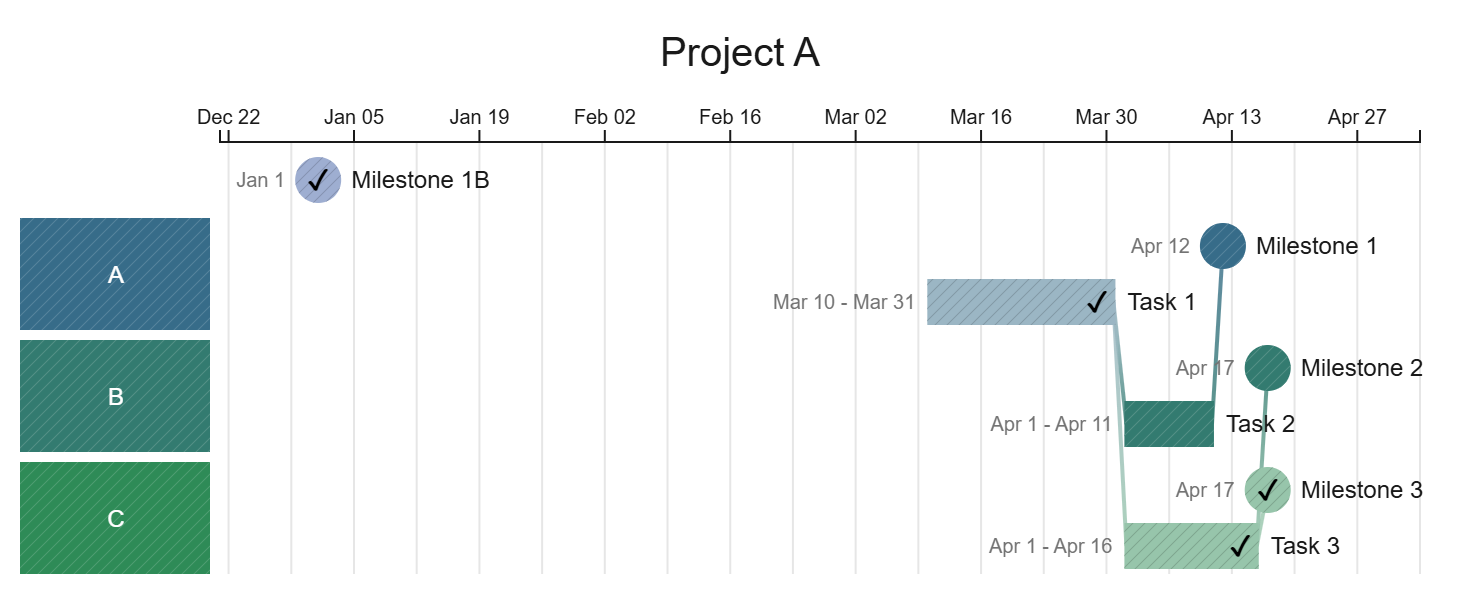
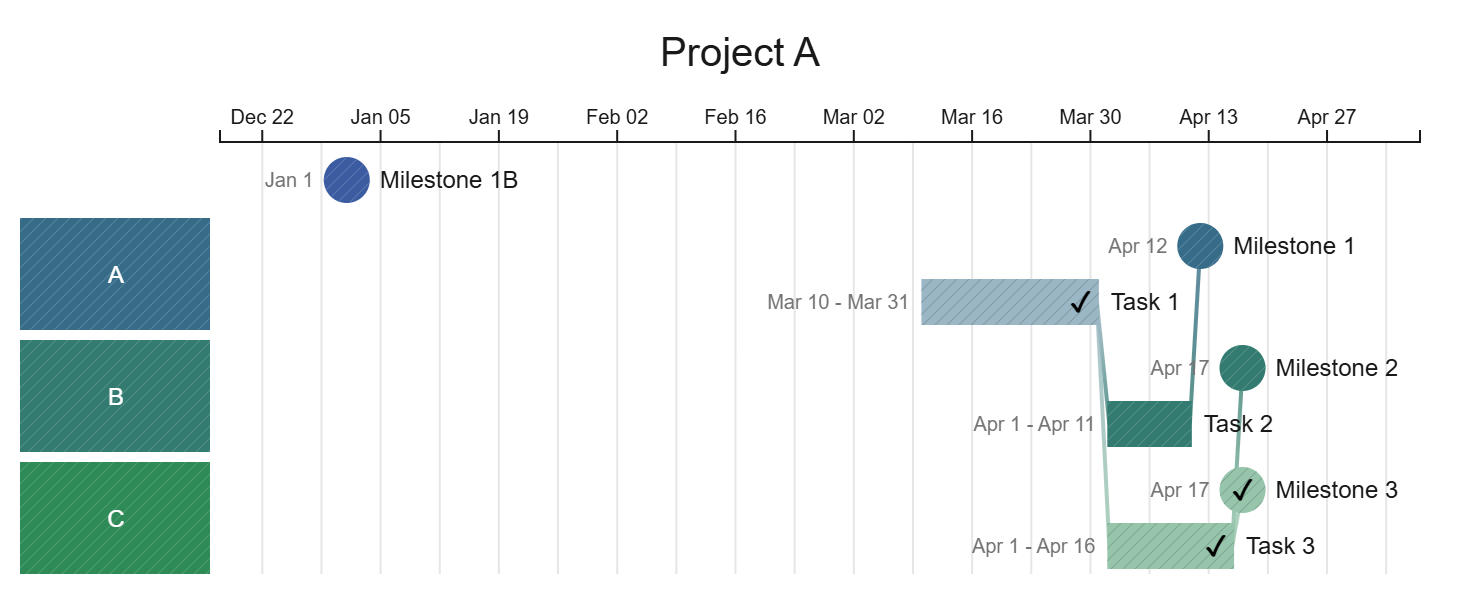
Bugfixes for Milestones (#42)
* Define empty milestone to be *not* completed && disallow milestones with no dates

* Rerender

* Format code

diff --git a/index.js b/index.js
@@ -69,7 +69,10 @@ const Z3_MAX_TIMEOUT_MS = 180_000;
 // <rect> and <text> do not align properly in chrome (2023-12-23), need very small adjustment
 const RECT_TEXT_ALIGNMENT_OFFSET_HACK_PIXELS = 0.75;
 // https://stackoverflow.com/questions/11526504
+// If date/null handling code is wrong things will go very badly.
+// This will make errors easy to detect.
 const JS_MIN_DATE = new Date(-8640000000000000);
+const JS_MAX_DATE = new Date(8640000000000000);
 const COMPLETED_EMOJI = "✓";
 const VIRTUAL_SWIMLANE_ID = "_milestonevirtualswimlane";
 
@@ -1244,11 +1247,18 @@ function renderTimeline(rawTimeline) {
             }
             return a.interval.end.getTime() - b.interval.end.getTime();
         });
+    const rawMilestones = rawTimeline.milestones || [];
     const minTaskDate = scheduledTasks
         .map(task => task.interval.start)
-        .reduce((min, curr) => (!min || curr < min ? curr : min), new Date());
+        .concat(
+            rawMilestones.filter(m => m.interval?.exactly).map(m => new Date(m.interval.exactly)),
+        )
+        .reduce((min, curr) => (!min || curr < min ? curr : min), JS_MAX_DATE);
     let maxTaskDate = scheduledTasks
         .map(task => task.interval.end)
+        .concat(
+            rawMilestones.filter(m => m.interval?.exactly).map(m => new Date(m.interval.exactly)),
+        )
         .reduce((max, curr) => (!max || curr > max ? curr : max), JS_MIN_DATE);
     if (minTaskDate > maxTaskDate) {
         maxTaskDate = addDays(minTaskDate, 1);
@@ -1276,7 +1286,7 @@ function renderTimeline(rawTimeline) {
                 const milestoneTime = deps
                     .map(t => t.interval.end)
                     .reduce((max, end) => (end > max ? end : max), minTaskDate);
-                const completed = deps.every(d => d.completed);
+                const completed = deps.length > 0 && deps.every(d => d.completed);
                 return {
                     ...m,
                     interval: {
@@ -2221,6 +2231,7 @@ function toEnUsOrd(ord) {
  * @returns {typeof _timeline}
  */
 function validateTimeline(timeline) {
+    console.log("validating", timeline);
     /** @type {string[]} */
     const errors = [];
     const checkErrorsAndFail = () => {
@@ -2234,32 +2245,32 @@ function validateTimeline(timeline) {
 
     const propsToStringCheck = [
         {
-            name: "tasks",
+            label: "tasks",
             data: timeline.tasks || [],
             props: [{ prop: "name", unique: true, index: taskNames }],
         },
         {
-            name: "swimlanes",
+            label: "swimlanes",
             data: timeline.swimlanes || [],
             props: [{ prop: "id", index: swimlaneIds }],
         },
         {
-            name: "milestones",
+            label: "milestones",
             data: timeline.milestones || [],
             props: [{ prop: "name" }],
         },
     ];
 
-    for (const { name, data, props } of propsToStringCheck) {
+    for (const { label, data, props } of propsToStringCheck) {
         let ord = 1;
         for (const { prop, unique, index } of props) {
             for (const entry of data) {
                 if (!entry || !entry[prop]) {
-                    errors.push(`The ${toEnUsOrd(ord)} ${name} is missing a "${prop}" property.`);
+                    errors.push(`The ${toEnUsOrd(ord)} ${label} is missing a "${prop}" property.`);
                 }
                 const value = entry[prop];
                 if (unique && index && index[value]) {
-                    errors.push(`Multiple ${name}s cannot have ${prop} '${value}'`);
+                    errors.push(`Multiple ${label}s cannot have ${prop} '${value}'.`);
                 }
                 if (index) {
                     index[value] = entry;
@@ -2272,22 +2283,26 @@ function validateTimeline(timeline) {
     checkErrorsAndFail();
 
     const dependenciesToValidate = [
-        { data: timeline.tasks || [], config: { allowEmptySwimlane: false } },
-        { data: timeline.milestones || [], config: { allowEmptySwimlane: true } },
+        { label: "task", data: timeline.tasks || [], config: { allowEmptySwimlane: false } },
+        {
+            label: "milestone",
+            data: timeline.milestones || [],
+            config: { allowEmptySwimlane: true, checkMilestoneExactlyOrDeps: true },
+        },
     ];
-    for (const { data, config } of dependenciesToValidate) {
+    for (const { data, label, config } of dependenciesToValidate) {
         for (const taskOrMilestone of data) {
             if (taskOrMilestone.deps) {
                 if (!Array.isArray(taskOrMilestone.deps)) {
-                    errors.push(`"deps" array is invalid for ${taskOrMilestone.name}`);
+                    errors.push(`"deps" array is invalid for ${taskOrMilestone.name}.`);
                 } else {
                     const notFoundDeps = taskOrMilestone.deps.filter(d => !taskNames[d]);
                     for (const d of notFoundDeps) {
-                        errors.push(`Can't find dependency: ${d} for ${taskOrMilestone.name}`);
+                        errors.push(`Can't find dependency: ${d} for ${taskOrMilestone.name}.`);
                     }
 
                     if (taskOrMilestone.deps.some(d => d === taskOrMilestone.name)) {
-                        errors.push(`Task ${taskOrMilestone.name} can't depend on itself.`);
+                        errors.push(`${label} ${taskOrMilestone.name} can't depend on itself.`);
                     }
                 }
             }
@@ -2297,8 +2312,20 @@ function validateTimeline(timeline) {
                 !!taskOrMilestone.swimlaneId && !swimlaneIds[taskOrMilestone.swimlaneId];
             if (invalidEmptySwimlane || invalidSwimlaneReference) {
                 errors.push(
-                    `Can't find swimlane ${taskOrMilestone.swimlaneId || "<not provided>"} for task ${taskOrMilestone.name}`,
+                    `Can't find swimlane ${taskOrMilestone.swimlaneId || "<not provided>"} for ${label} ${taskOrMilestone.name}.`,
                 );
+            }
+
+            console.log(config, taskOrMilestone);
+            if (config.checkMilestoneExactlyOrDeps) {
+                if (
+                    !taskOrMilestone.interval?.exactly &&
+                    (!taskOrMilestone.deps || taskOrMilestone.deps.length === 0)
+                ) {
+                    errors.push(
+                        `If dependency array is empty for ${label} ${taskOrMilestone.name}, ${label}.interval.exactly must be set.`,
+                    );
+                }
             }
         }
     }
@@ -2315,7 +2342,7 @@ function validateTimeline(timeline) {
                 const cycleIdx = currBackEdges.indexOf(dep);
                 if (cycleIdx !== -1) {
                     errors.push(
-                        `Cycle detected: ${currBackEdges.slice(cycleIdx).join(" -> ")} -> ${curr} -> ${dep}`,
+                        `Cycle detected: ${currBackEdges.slice(cycleIdx).join(" -> ")} -> ${curr} -> ${dep}.`,
                     );
                     checkErrorsAndFail();
                 }
@@ -2598,6 +2625,7 @@ async function flushTimeline() {
 
     try {
         notifyOptimizing();
+        validateTimeline(_timeline);
         _scheduledTimeline = await scheduleTasks(_timeline, timeout =>
             notifyOptimizingWithTimeout(timeout),
         );

diff --git a/index.html b/index.html
@@ -143,7 +143,7 @@
         <small id="status-field"></small><br /><br />
         <!-- begin autogenerated -->
             <small>&copy; 2025 Gary Gurlaskie</small><br />
-            <small>Gantt Chart Tool v2025-03-09.1</small><br />
+            <small>Gantt Chart Tool v2025-03-09.3</small><br />
             <!-- end autogenerated -->
         <small><a class="a-link" target="_blank" href="https://github.com/garyg1/gantt-chart-tool">Source
                 (Github)</a></small><br />
